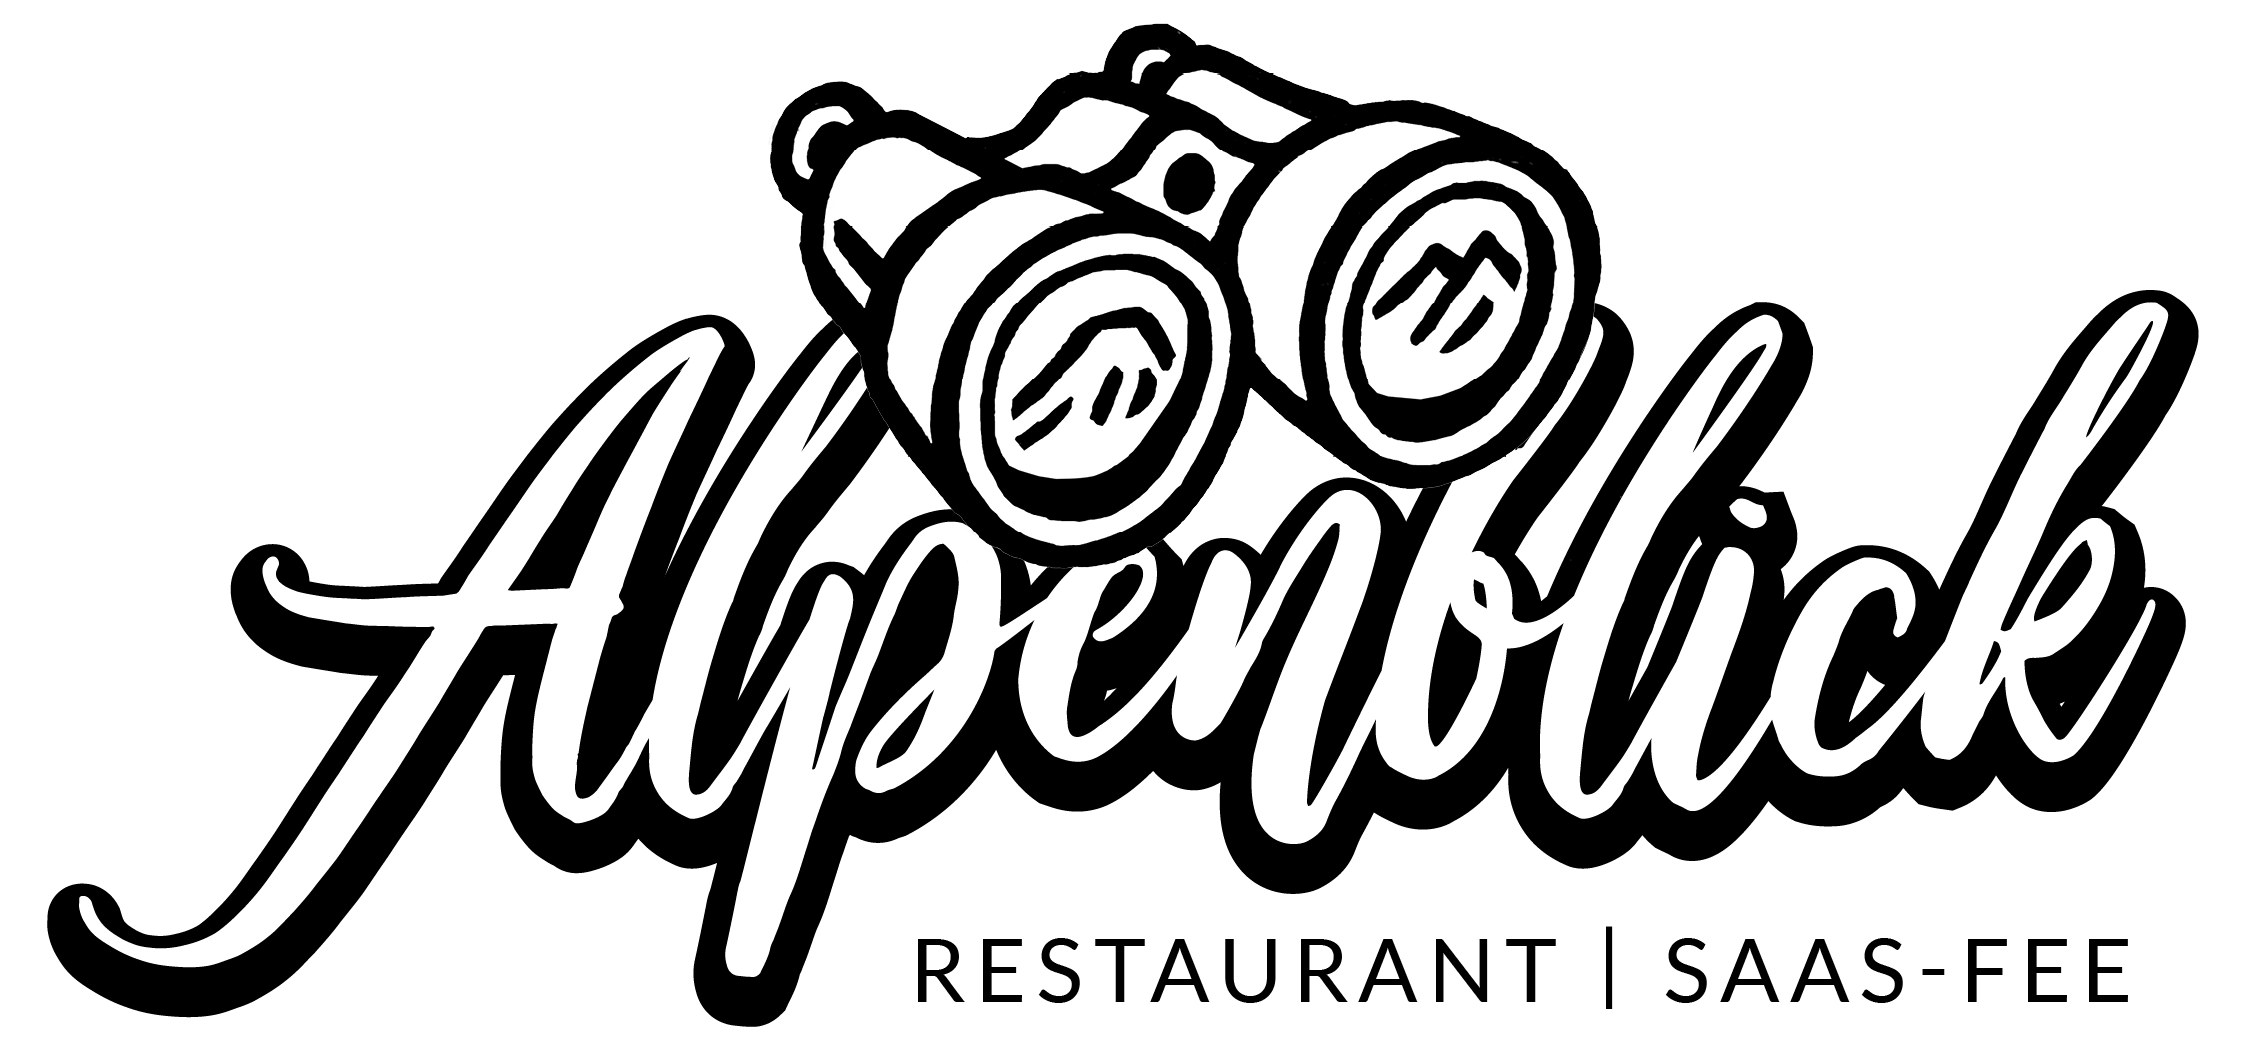
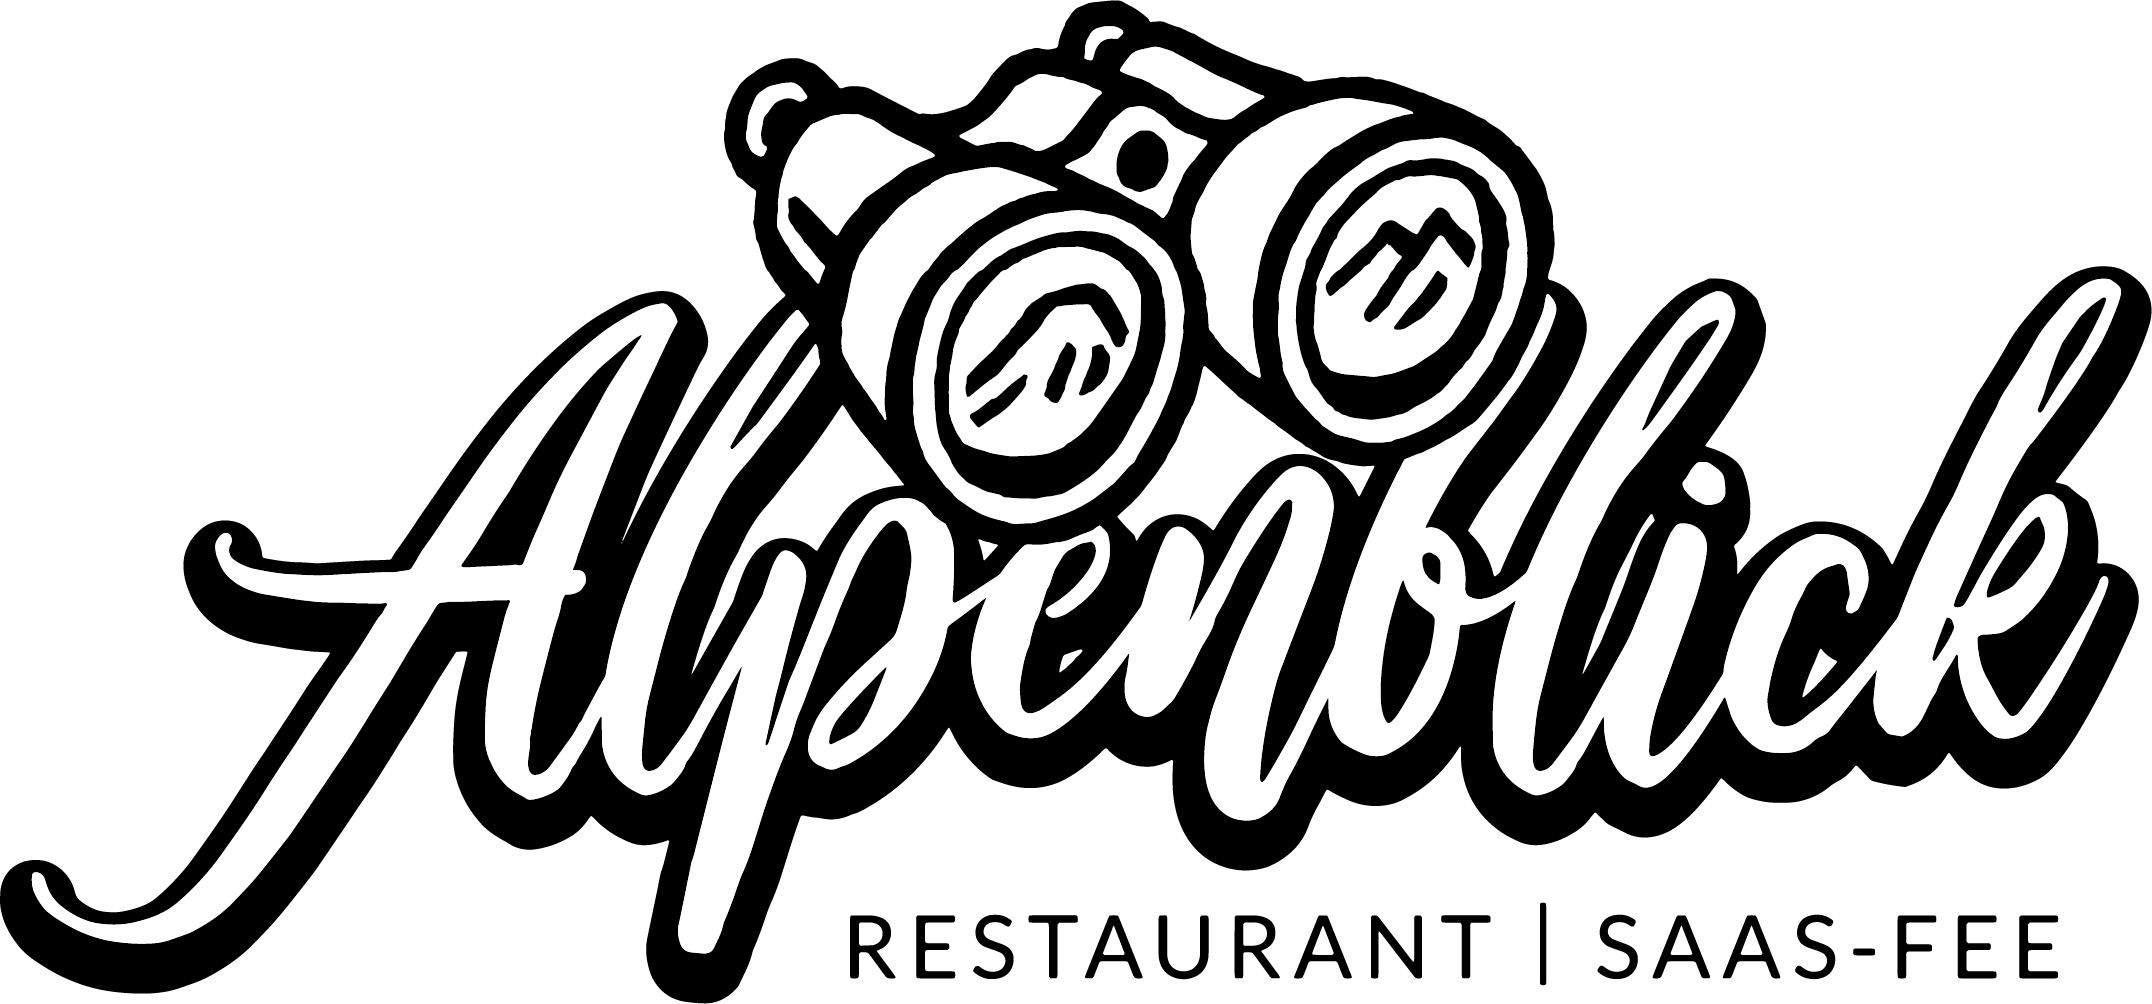
update homepage und gallery

Changed region(s): [[0.0, 0.0, 1.0, 1.0], [0.7161, 0.8645, 0.9651, 0.988]]

diff --git a/index.html b/index.html
@@ -71,17 +71,7 @@
 	<main class="content" role="main">
       
 
-<img src="images/Restaurant_Alpenblick_Saas_Fee_SW_Weihnachten.png" alt="Restaurant Alpenblick Saas-Fee Logo" class="logo" />
-
-<hr />
-
-<p><strong>NOCH KEIN WEIHNACHTSGESCHENK?
-<br>Alpenblick Gutschein via <a href="mailto:info@alpenblick-saasfee.ch?Subject=Gutscheinbestellung" target="_top">E-Mail</a> bestellen!</p>
-
-<hr />
-
-<p></strong>
-<br></p>
+<img src="images/Restaurant_Alpenblick_Saas_Fee_FBG_BLAU.png" alt="Restaurant Alpenblick Saas-Fee Logo" class="logo" />
 
 <h1 id="herzlich-willkommen">Herzlich Willkommen &hellip;</h1>
 
@@ -90,6 +80,21 @@
 <p>&hellip; in unserer ersten Wintersaison! Geniessen Sie unsere wunderschöne Terrasse mit herrlicher Aussicht auf die winterliche Berglandschaft und das rustikale Interieur unserer Zuckmayer Stube. Sie werden von uns mit Schweizer Küche und feinen hausgemachten Kuchen verwöhnt.</p>
 
 <p><em>Petra &amp; Adi</em></p>
+
+<h1 id="toc_1"> </h1>
+
+<hr />
+
+<p><strong>Auf Geschenksuche?</strong>
+Jetzt Alpenblick Gutschein via <a href="mailto:info@alpenblick-saasfee.ch?Subject=Gutscheinbestellung" target="_top">E-Mail</a> bestellen!</p>
+
+<hr />
+
+<p><strong>Hat es dir/euch gefallen bei uns?</strong>
+Danke für deine Bewertung:
+<a href="https://www.suissegourmet.ch/saas-fee/restaurant-alpenblick/" target="_blank" alt="Die besten Restaurants in Schweiz" title="Die besten Restaurants in Schweiz"><img src="https://www.suissegourmet.ch/gourmetbutton/stempel.php?rid=72573" alt="Die besten Restaurants in Schweiz" border="0"></a></p>
+
+<hr />
 
 <!-- # Herzlich Willkommen ...
 ![Alpenblick](images/Alpenblick_Ansicht_13.jpg "Alpenblick")
@@ -112,7 +117,7 @@ _Petra & Adi_ -->
         <footer class="site-footer">
   
   
-  <section class="copyright">&copy; 2019 Alpenblick Gastro GmbH</section>
+  <section class="copyright">&copy; 2020 Alpenblick Gastro GmbH</section>
   <section class="poweredby">Published with <a href="https://gohugo.io">Hugo</a>.</section>
 </footer>
 

diff --git a/gallery/index.html b/gallery/index.html
@@ -77,6 +77,10 @@
 
 <h3 id="ansicht">Ansicht</h3>
 
+<p><img src="../images/Alpenblick_Ansicht_15.jpg" alt="Ansicht" title="Ansicht" /></p>
+
+<p><img src="../images/Alpenblick_Ansicht_14.jpg" alt="Ansicht" title="Ansicht" /></p>
+
 <p><img src="../images/Alpenblick_Ansicht_10.jpg" alt="Ansicht" title="Ansicht" /></p>
 
 <p><img src="../images/Alpenblick_Ansicht_09.jpg" alt="Ansicht" title="Ansicht" /></p>
@@ -96,6 +100,8 @@
 <p><img src="../images/Alpenblick_Ansicht_13.jpg" alt="Ansicht" title="Ansicht" /></p>
 
 <h3 id="zuckmayer-stube">Zuckmayer Stube</h3>
+
+<p><img src="../images/Alpenblick_Innen_08.jpg" alt="Zuckmayer Stube" title="Zuckmayer Stube" /></p>
 
 <p><img src="../images/Alpenblick_Innen_04.jpg" alt="Zuckmayer Stube" title="Zuckmayer Stube" /></p>
 
@@ -155,7 +161,7 @@
         <footer class="site-footer">
   
   
-  <section class="copyright">&copy; 2019 Alpenblick Gastro GmbH</section>
+  <section class="copyright">&copy; 2020 Alpenblick Gastro GmbH</section>
   <section class="poweredby">Published with <a href="https://gohugo.io">Hugo</a>.</section>
 </footer>
 

diff --git a/contact/index.html b/contact/index.html
@@ -110,7 +110,7 @@ Auf Anfrage für Gruppen am Abend geöffnet.</p>
         <footer class="site-footer">
   
   
-  <section class="copyright">&copy; 2019 Alpenblick Gastro GmbH</section>
+  <section class="copyright">&copy; 2020 Alpenblick Gastro GmbH</section>
   <section class="poweredby">Published with <a href="https://gohugo.io">Hugo</a>.</section>
 </footer>
 

diff --git a/about/index.html b/about/index.html
@@ -101,7 +101,7 @@
         <footer class="site-footer">
   
   
-  <section class="copyright">&copy; 2019 Alpenblick Gastro GmbH</section>
+  <section class="copyright">&copy; 2020 Alpenblick Gastro GmbH</section>
   <section class="poweredby">Published with <a href="https://gohugo.io">Hugo</a>.</section>
 </footer>
 

diff --git a/categories/index.html b/categories/index.html
@@ -97,7 +97,7 @@
         <footer class="site-footer">
   
   
-  <section class="copyright">&copy; 2019 Alpenblick Gastro GmbH</section>
+  <section class="copyright">&copy; 2020 Alpenblick Gastro GmbH</section>
   <section class="poweredby">Published with <a href="https://gohugo.io">Hugo</a>.</section>
 </footer>
 

diff --git a/tags/index.html b/tags/index.html
@@ -99,7 +99,7 @@
         <footer class="site-footer">
   
   
-  <section class="copyright">&copy; 2019 Alpenblick Gastro GmbH</section>
+  <section class="copyright">&copy; 2020 Alpenblick Gastro GmbH</section>
   <section class="poweredby">Published with <a href="https://gohugo.io">Hugo</a>.</section>
 </footer>
 
